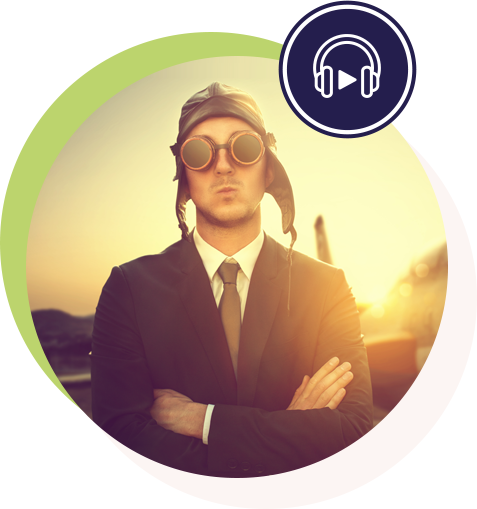
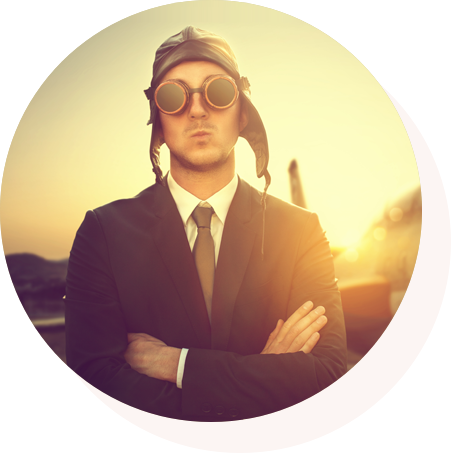
Fix: bug css

diff --git a/assets/scss/layout/_placeAlexpert.scss b/assets/scss/layout/_placeAlexpert.scss
@@ -20,10 +20,20 @@
     align-items: center !important;
     padding: 0 32px !important;
   }
+  // .beforeCircle {
+  //   position: absolute !important;
+  //   width: 500px !important;
+  //   height: 500px !important;
+  //   background-color: $primary-color !important;
+  //   border-radius: 50% !important;
+  //   top: 86px !important;
+  //   left: 160px !important;
+  // }
   .imgExpertTop {
-    display: block !important;
     width: 70% !important;
     margin: 400px auto 32px !important;
+    position: relative !important;
+    display: block !important;
     @include mobileL {
       width: 50% !important;
     }

diff --git a/assets/css/style.css b/assets/css/style.css
@@ -158,9 +158,10 @@ table {
   }
 }
 .containerPlaceExpert .imgExpertTop {
-  display: block !important;
   width: 70% !important;
   margin: 400px auto 32px !important;
+  position: relative !important;
+  display: block !important;
 }
 @media screen and (min-width: 576px) {
   .containerPlaceExpert .imgExpertTop {

diff --git a/index.html b/index.html
@@ -10,6 +10,7 @@
   <body>
     <section class="sectionPlaceExpert">
       <div class="containerPlaceExpert">
+        <!--<div class="beforeCircle"></div>-->
         <img
           class="imgExpertTop"
           src="./assets/images/Groupe 1.png"
